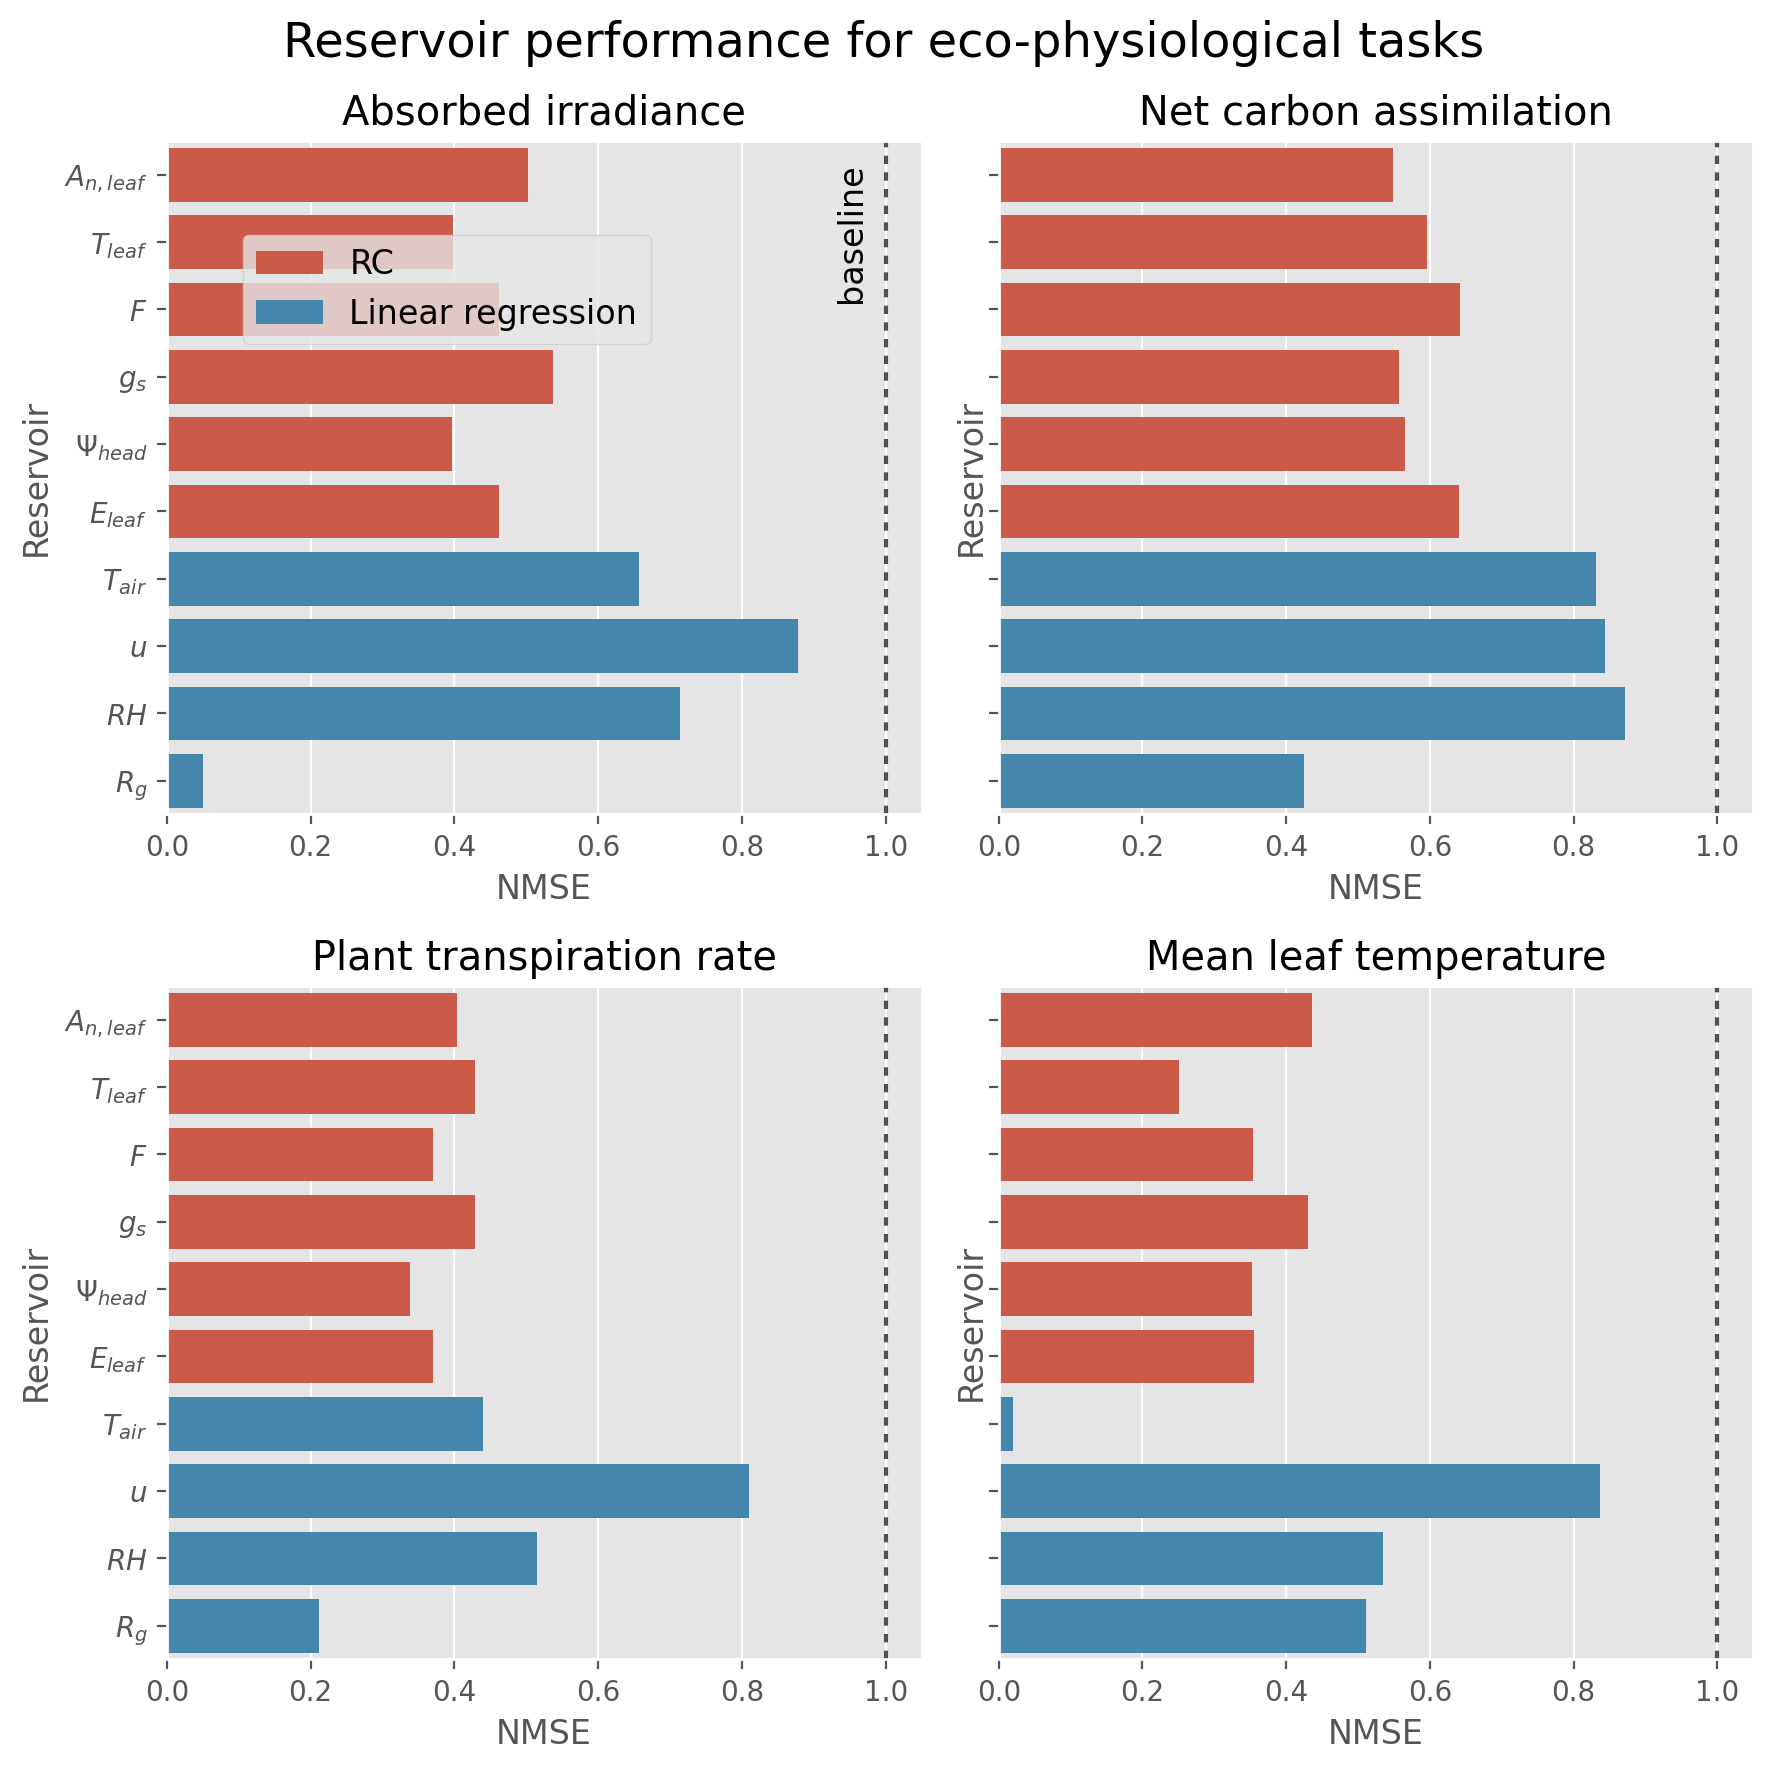
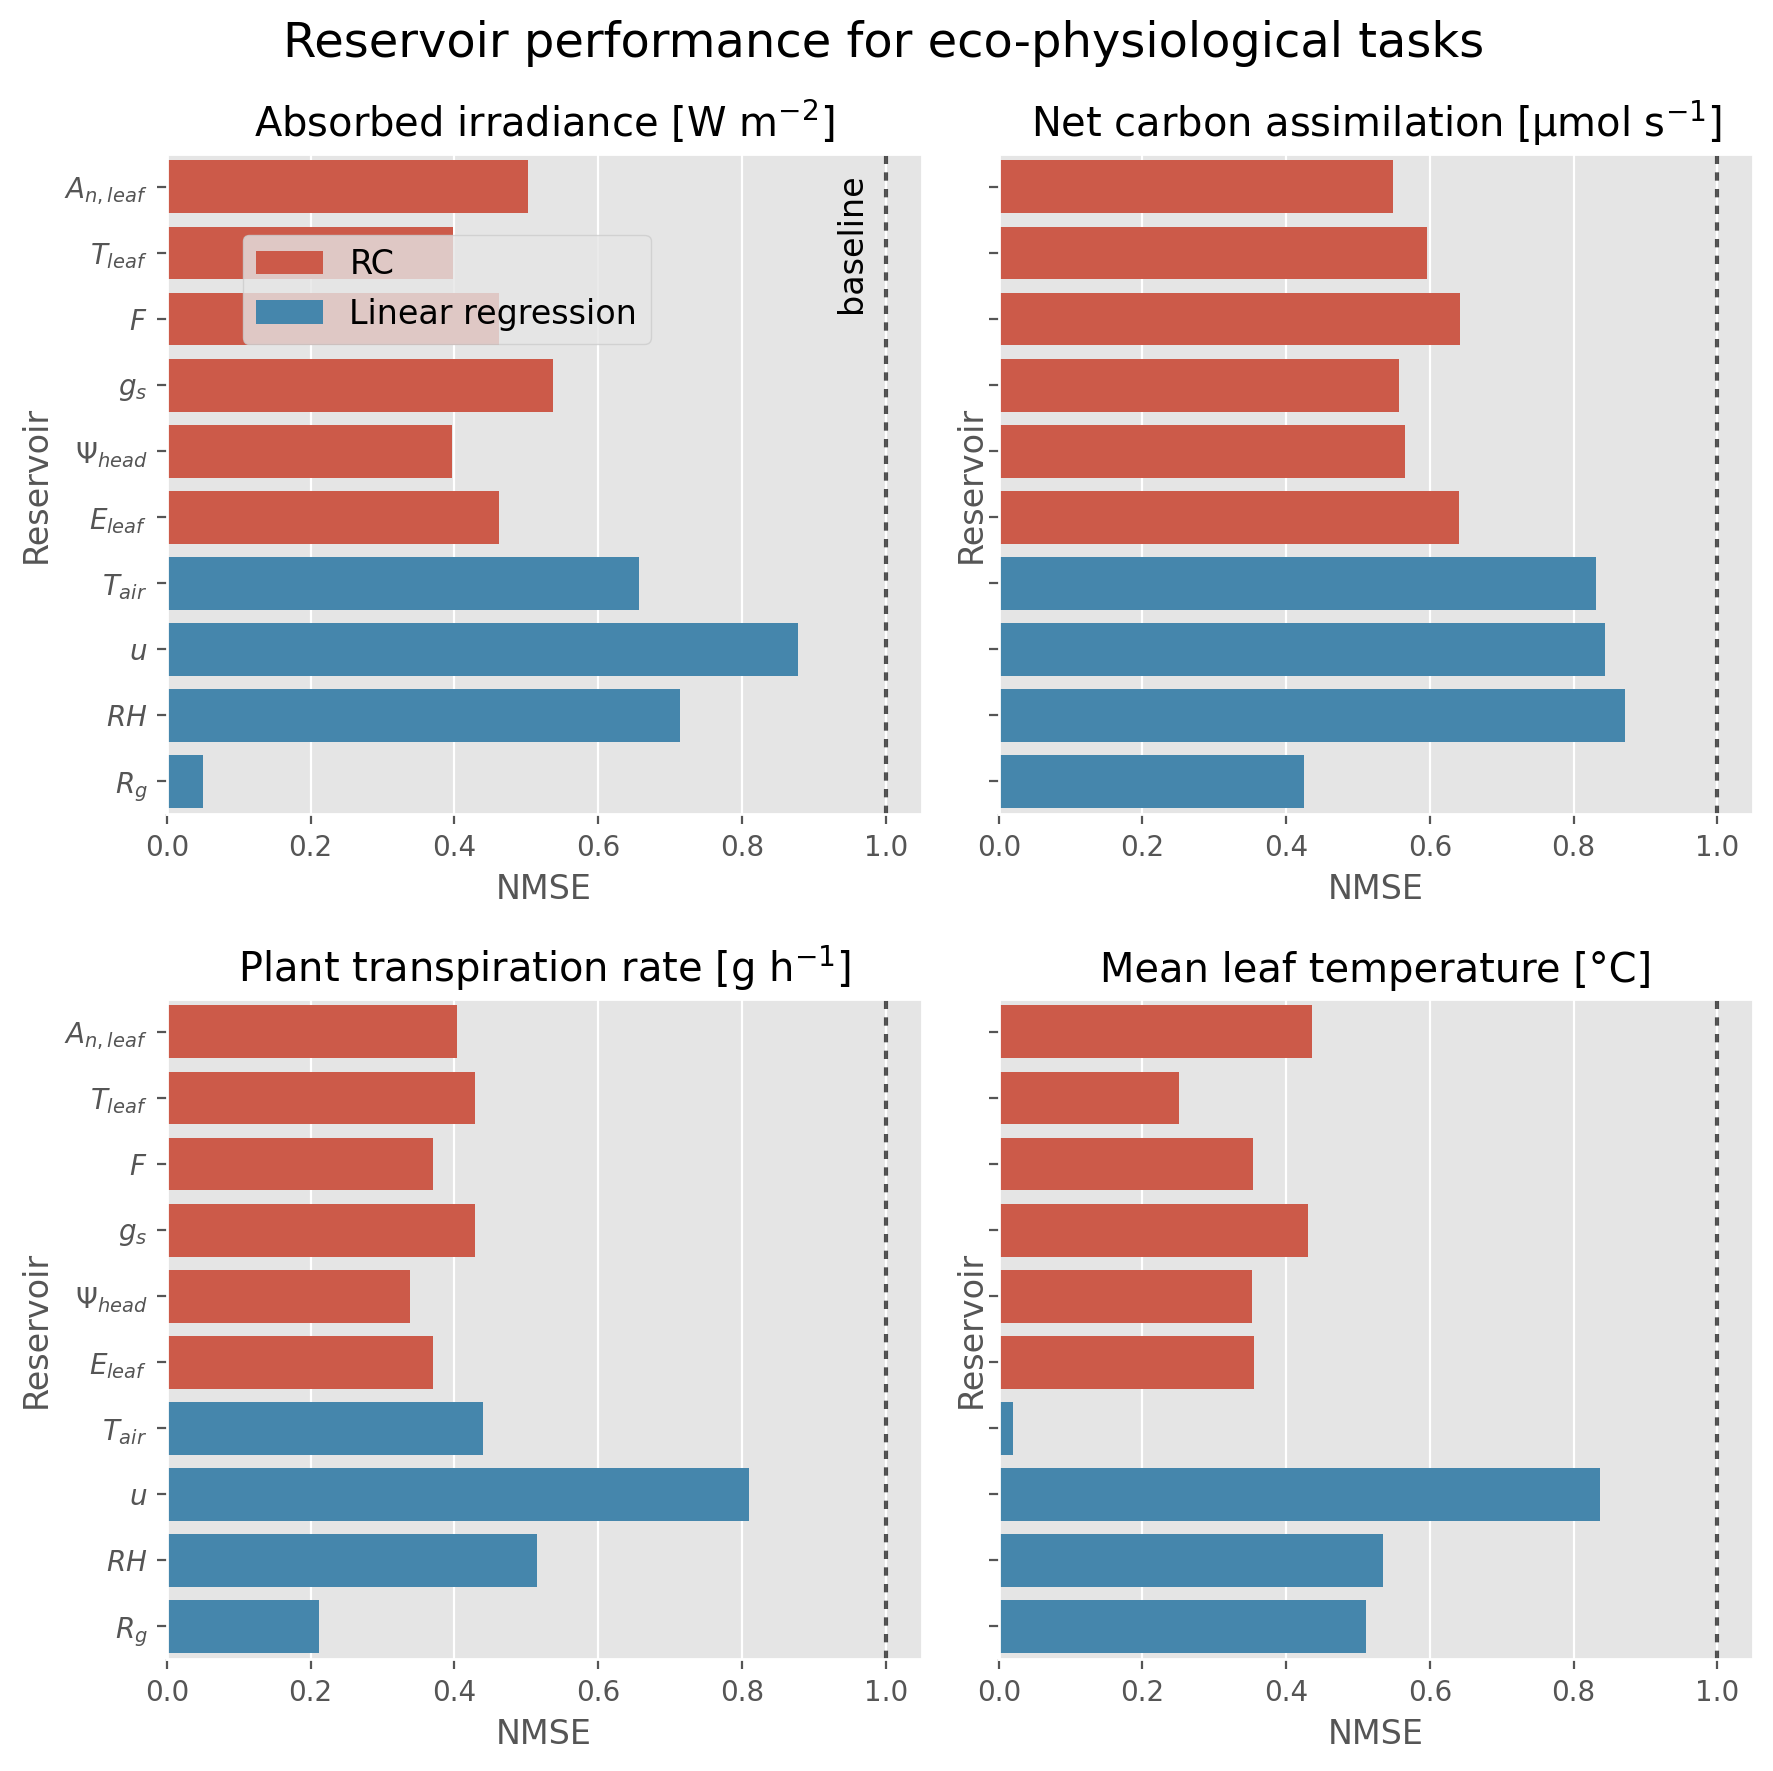
WIP

diff --git a/notebooks/model_config_hydroshoot.py b/notebooks/model_config_hydroshoot.py
@@ -154,7 +154,15 @@ output_symbols = {
 
 output_units = {
     "output_Rg": "W m$^{-2}$",
-    "output_An": "µmol s$^{-1}",
+    "output_An": "µmol s$^{-1}$",
     "output_E": "g h$^{-1}$",
     "output_Tleaf": "°C",
 }
+
+
+best_reservoirs = [
+    "state_Tlc",
+    "state_psi_head",
+    "state_E",
+    "state_Flux",
+]

diff --git a/notebooks/model_config_cnwheat.py b/notebooks/model_config_cnwheat.py
@@ -166,3 +166,11 @@ measurable_reservoirs = [
     "state__gs",
     "state__sum_respi",
 ]
+
+
+best_reservoirs = [
+    "state__Ts",
+    "state__Tr",
+    "state__Rd",
+]
+
